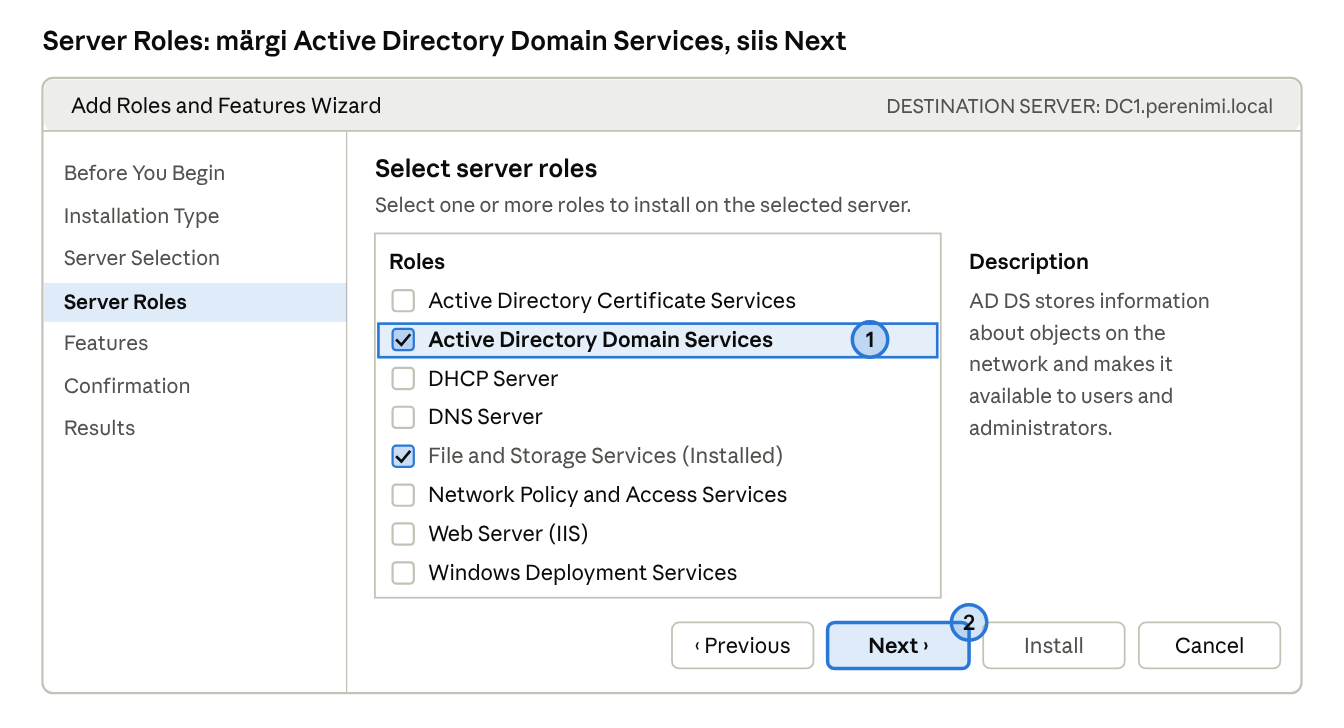
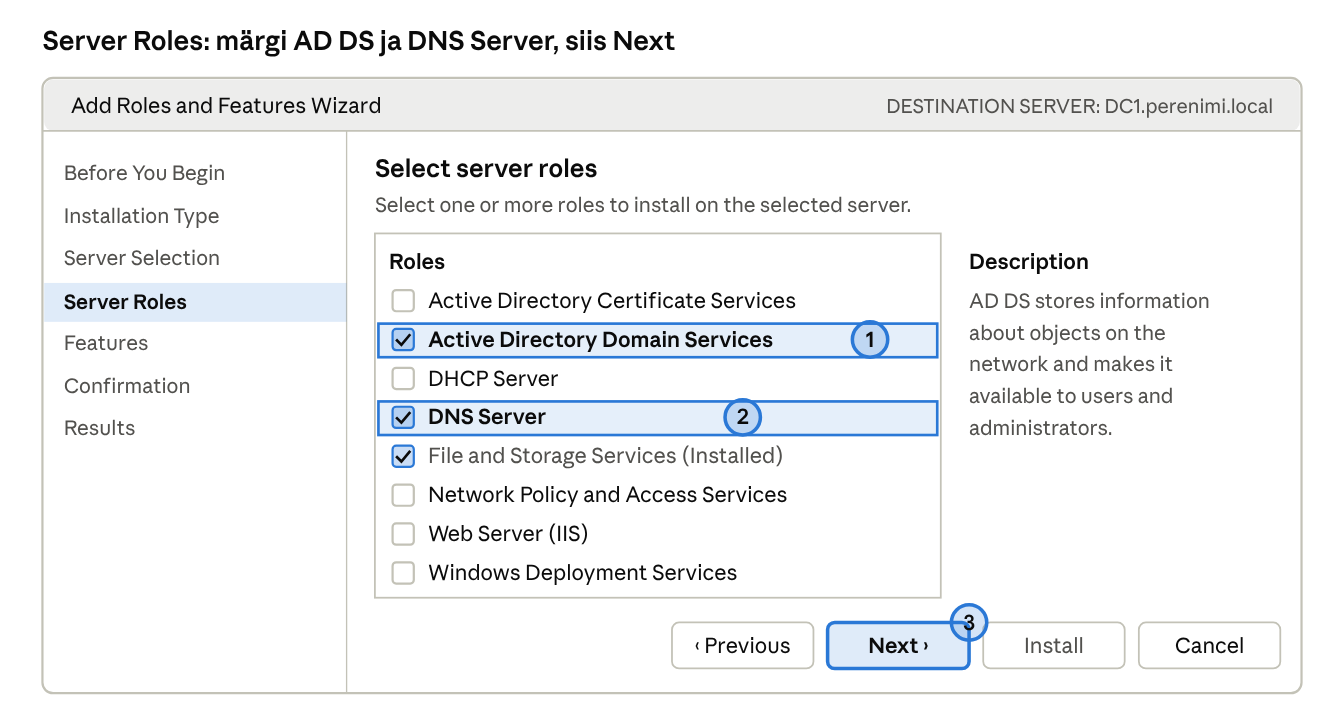
5.3: AD DS koos DNS Server rolliga (juhend ja skeem)
Claude-Session: https://claude.ai/code/session_01JGgdcJ46Hjcys2TECGErkA

Changed region(s): [[0.2812, 0.544, 0.7188, 0.6044], [0.2188, 0.0302, 0.625, 0.0907]]

diff --git a/peatykid/05-active-directory-ja-dns.md b/peatykid/05-active-directory-ja-dns.md
@@ -48,7 +48,7 @@ DC loomine on kaheastmeline: esmalt paigaldatakse roll (binaarfailid), seejärel
 **DC1: uus mets**
 
 1. *Server Manager* → *Manage → Add Roles and Features* → *Next* → **Role-based or feature-based installation** → server **DC1**.
-2. *Server Roles*: märgi **Active Directory Domain Services** → *Add Features* → *Next* kuni lõpuni → *Install*.
+2. *Server Roles*: märgi **Active Directory Domain Services** → *Add Features* ja **DNS Server** → *Add Features* → *Next* kuni lõpuni → *Install*.
 3. Kui paigaldus on lõppenud, klõpsa ülal kollasel lipul → **Promote this server to a domain controller**.
 4. *Deployment Configuration*: **Add a new forest**, *Root domain name* `perenimi.local`.
 5. *Domain Controller Options*: *Forest/Domain functional level* **Windows Server 2016**, märgitud **DNS server** ja **Global Catalog (GC)**, sisesta **DSRM-parool** (hoia alles!).
